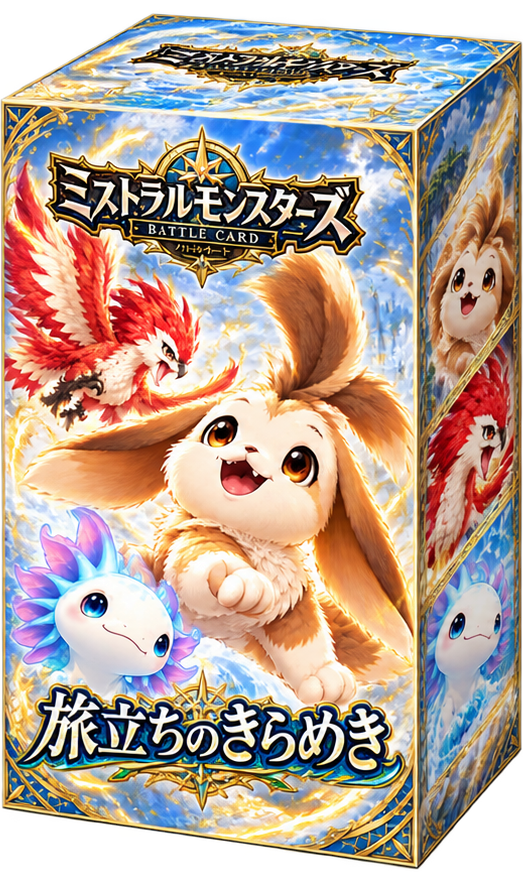
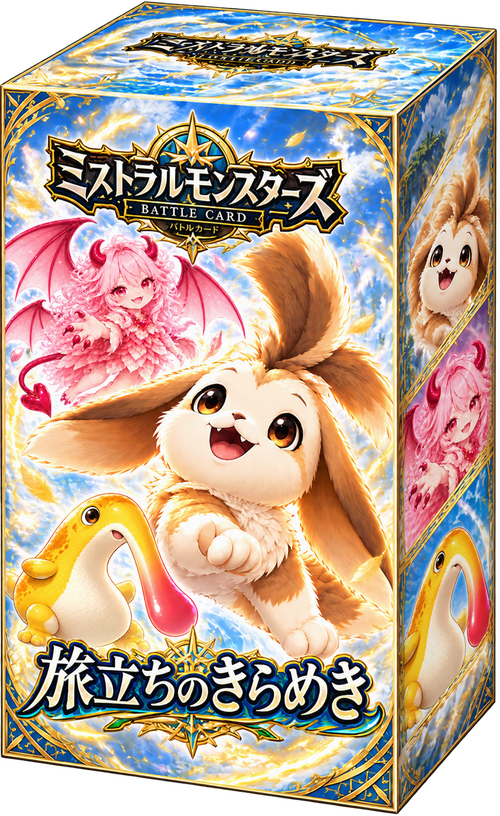
最初の3箱の箱絵を新しい絵に差し替える（指示書 AR）
- 原本 design-parts/booster-boxes-20261102/（1060×1750・無改変）。ゲームの絵は透明な所だけを切り、半分（幅 500）に縮めた
- 管理局で選ぶ画面・受け取った所・カードショップのカウンターの棚・買うときの確かめで、位置・大きさ・影・光を確かめた（tools/e2e/ar_box_shot.cjs）
- 古い箱絵がほかの絵に残っている所は無かった。記録 docs/boxart-ar-20261102.md

Claude-Session: https://claude.ai/code/session_01GPUK2xSPSHUQ9AAPnKxZ9w

diff --git a/src/ui/components/boosterArt.ts b/src/ui/components/boosterArt.ts
@@ -4,8 +4,10 @@ import soukai from '@assets/images/ui/booster/booster_soukai.png';
 import type { BoosterDefinition } from '../../data/introV2.ts';
 
 /**
- * ブースターパックの箱の絵（2026-10-27 ユーザー承認の正式デザイン。3箱集合の絵から切り出しただけで描き直していない）。
- * 原本は design-parts/booster-boxes-20261027/（チャットで届いた透明の3箱集合と、指示書 ZIP の JPEG）。差し替えるときはこの3つのファイル
+ * ブースターパックの箱の絵。2026-11-02 指示書 AR で、今の中身（旅立ち＝ソラモ・リリル・ノビトン／烈火＝ガウル・ラズック・ツムジ／
+ * 蒼海＝ミュロル・カルシェル・フォルン）の新しい箱絵に差し替えた。原本は design-parts/booster-boxes-20261102/box_{tabidachi,rekka,soukai}.png（1060×1750・無改変）。
+ * ゲームの絵は、原本のまわりの透明な所だけを切り（箱の絵は変えない）、半分の大きさ（幅 500）に縮めたもの（表示はいちばん大きい所で幅 120px なので、iPhone でもぼやけない）。
+ * 前の絵（2026-10-27。3箱集合から切り出し）の原本は design-parts/booster-boxes-20261027/。差し替えるときはこの3つのファイル
  */
 const BOOSTER_ART: Readonly<Record<BoosterDefinition['art'], string>> = {
   booster_tabidachi: tabidachi,

diff --git a/src/data/introV2.ts b/src/data/introV2.ts
@@ -53,7 +53,7 @@ export interface BoosterDefinition {
   readonly key: BoosterKey;
   /** 商品名（2026-10-27 正式デザインの箱の名前。英語は i18n の introV2.pack.name.*） */
   readonly name: string;
-  /** 箱の絵（assets/images/ui/booster/。正式デザインの3箱集合から切り出し。src/ui/components/boosterArt.ts） */
+  /** 箱の絵（assets/images/ui/booster/。2026-11-02 指示書 AR で今の中身の箱絵に。src/ui/components/boosterArt.ts） */
   readonly art: 'booster_tabidachi' | 'booster_rekka' | 'booster_soukai';
   /** 種類（バランス・攻撃・防御）と、箱に描かれたモンスター（商品のイメージ。封入の保証・排出率ではない） */
   readonly category: StarterDeckKey;

diff --git a/design-parts/booster-boxes-20261102/AR_instruction_ja.md b/design-parts/booster-boxes-20261102/AR_instruction_ja.md
@@ -1,0 +1,20 @@
+指示書 AR：最初の3箱の箱絵を差し替える（2026-11-02 進行チャット）
+
+AQ を main に取り込んだあとの main から、新しいブランチで始めてください。返事・報告は日本語でお願いします。
+npm run check を通してから main に取り込み、作業報告書の ZIP（報告書.html・写真）を1つにまとめてください。公開はユーザーの「公開して」を待ってください。
+
+■ ZIP：Mistral_CC_AR_BoxArt3_20261102.zip
+- box_tabidachi.png・box_rekka.png・box_soukai.png（各 1060×1750・RGBA。箱の外は透明）
+  ユーザーと進行が合格にしたものです（旅立ちだけ、ロゴの下の小さな「バトルカード」の字を進行が烈火の絵から写して直してあります）
+- 中身：旅立ち＝ソラモ・リリル・ノビトン／烈火＝ガウル・ラズック・ツムジ／蒼海＝ミュロル・カルシェル・フォルン（V1 の中身と同じ）
+
+■ やること
+1. 原本を design-parts/booster-boxes-20261102/ に、手を加えずに保管してください
+2. assets/images/ui/booster/booster_tabidachi.png・booster_rekka.png・booster_soukai.png を新しい絵に差し替えてください。今の絵は約530×873 なので、新しい絵は約2倍の大きさです。iPhone でぼやけないよう、2倍のまま使うか、表示の大きさの2倍に縮めてください（ファイルが重すぎるときは webp でもかまいません）
+3. 縦横の比は今とほぼ同じ（約0.61）ですが、箱を並べたときの位置・大きさ・影・光の演出がずれないか確かめてください
+4. 箱の絵が出るすべての所で確かめてください：管理局で箱を選ぶ画面・箱を開ける演出・カードショップのカウンター（1,500G の箱）・そのほか見つかった所
+5. 古い絵の中のモンスター（ガウル・ミュロル・ノビトン）が別の所（説明の画像など）に残っていないかも探してください
+
+■ 報告に入れてほしいもの（390×844 の画面）
+- 箱を選ぶ画面（3箱が並んだ所）・箱を開ける演出の始まり・カウンターの箱
+- 差し替えたファイルの一覧と大きさ

diff --git a/docs/boxart-ar-20261102.md b/docs/boxart-ar-20261102.md
@@ -1,0 +1,20 @@
+# AR 最初の3箱の箱絵の差し替え（2026-11-02）
+
+指示書 AR（ZIP「Mistral_CC_AR_BoxArt3_20261102」4ファイル。指示書の原本は `design-parts/booster-boxes-20261102/AR_instruction_ja.md`）。ブランチ `ar-boxart`。
+
+- 原本 `design-parts/booster-boxes-20261102/box_tabidachi.png`・`box_rekka.png`・`box_soukai.png`（各 1060×1750・RGBA。無改変）
+- ゲームの絵 `assets/images/ui/booster/booster_*.png` を差し替えた。原本のまわりの**透明な所だけ**を切り（3〜4% の余白。前の絵は余白なしで切ってあったので、そろえないと箱が小さく・ずれて見える）、
+  **半分の大きさ**に縮めた。箱の絵そのものは変えていない
+
+| ファイル | 前 | 新しい | 縦横の比 | 重さ |
+| --- | --- | --- | --- | --- |
+| booster_tabidachi.png | 523×872 | 500×816 | 0.613 | 945KB |
+| booster_rekka.png | 534×873 | 500×806 | 0.620 | 984KB |
+| booster_soukai.png | 529×874 | 500×820 | 0.610 | 979KB |
+
+- 表示の大きさ：管理局で選ぶ画面 最大幅 120px・カウンターの棚 104px・買うときの確かめ 96px・受け取った所 90px。どこも幅 500 の4倍以上なので、iPhone（3倍）でもぼやけない
+- 箱の絵が出る所（`src/ui/components/boosterArt.ts` の `boosterArtUrl` だけ）：管理局で箱を選ぶ画面・箱を受け取った所（箱を開ける演出の始まり）・カードショップのカウンターの箱の棚・買うときの確かめ。
+  4か所とも写真で確かめた（位置・大きさ・影・選んだときの光は前と同じ）。写真の道具 `tools/e2e/ar_box_shot.cjs`
+- 古い箱絵（ガウル・ミュロル・ノビトンの描かれた版）が別の絵に焼きこまれている所は無かった（カードショップ・管理局のカウンター・掲示板・メダル棚の絵も見た。箱絵を合成する道具も無い）。
+  前の原本は `design-parts/booster-boxes-20261027/` に残している
+- セーブ version は 33 のまま。テストは変わらず

diff --git a/docs/handoff.md b/docs/handoff.md
@@ -1,10 +1,17 @@
-# 引き継ぎメモ（2026-11-02：指示書 AQ〔ウズリオ・サポート3枚・風の渓谷の切り札交代〕を main に入れた・未公開）
+# 引き継ぎメモ（2026-11-02：指示書 AQ〔ウズリオ〕・AR〔最初の3箱の箱絵〕を main に入れて公開した）
 
 新しいセッションで読むのは `CLAUDE.md` とこのファイルだけ。他の資料は必要になったときに1つずつ読む。
 
 ## 0. 次のセッションへ
 
-### まず読む：いまの状態（2026-11-02 指示書 AQ のセッション終わり）
+### まず読む：いまの状態（2026-11-02 指示書 AR のセッション終わり）
+
+- **指示書 AR（ブランチ `ar-boxart`）を main に取り込み、AQ と一緒に公開した**（ユーザー「公開してOK」2026-11-02）。記録 `docs/boxart-ar-20261102.md`
+  - 最初の3箱の箱絵を今の中身の新しい絵に（原本 `design-parts/booster-boxes-20261102/`・ゲームの絵は透明な所だけ切って半分の大きさ）。古い箱絵が残っている所は無かった
+- 作業報告書の ZIP（`MistralBC_AR_Report_20261102.zip`）をユーザーに渡した
+- **ユーザーの返事待ち**：AQ の要確認（ゼフィラの物差し など）・iPhone 実機での確認
+
+### その前（2026-11-02 指示書 AQ のセッション終わり）
 
 - **指示書 AQ（ブランチ `aq-uzurio`）を main に取り込んだ・未公開**（公開中は main `41e6980`＝AO・AP まで）。セーブ version 33 のまま・テスト 1341件
 - 記録 `docs/uzurio-aq-20261102.md`（試遊の JSON は `docs/design/uzurio-aq-20261102/`・写真の道具 `tools/e2e/uzurio_aq_shot.cjs`）

diff --git a/docs/booster-select.md b/docs/booster-select.md
@@ -11,6 +11,8 @@
 | booster-3 | 蒼海の守り | 防御 | カルシェル・ミュロル・ノビトン | `booster_soukai.png` |
 
 - 箱の絵はユーザーが会話に貼った背景なしの絵（`BoosterBoxes_3_Transparent_UserProvided.png`）から1箱ずつ切り出した（色は変えていない。ほぼ不透明の所を不透明にしただけ。白いふちは出ない）
+- **2026-11-02 指示書 AR**：箱の絵を今の中身（旅立ち＝ソラモ・リリル・ノビトン／烈火＝ガウル・ラズック・ツムジ／蒼海＝ミュロル・カルシェル・フォルン）の新しい絵に差し替えた。
+  原本 `design-parts/booster-boxes-20261102/`（1060×1750・無改変）。ゲームの絵は透明な所だけを切って半分（幅 500）に縮めたもの。上の表のモンスターは 2026-10-27 の版（今の中身は `src/data/introV2.ts`）
 - 指の絵は `assets/images/ui/later/tutorial_pointer.webp` の1つ目を切り出したもの（`pointer_finger.webp`）
 - データ：`src/data/introV2.ts` の `BOOSTERS`。**中身（`cards`）は null のまま**。値段 `BOOSTER_SHOP_PRICE` も null（未定）
 
